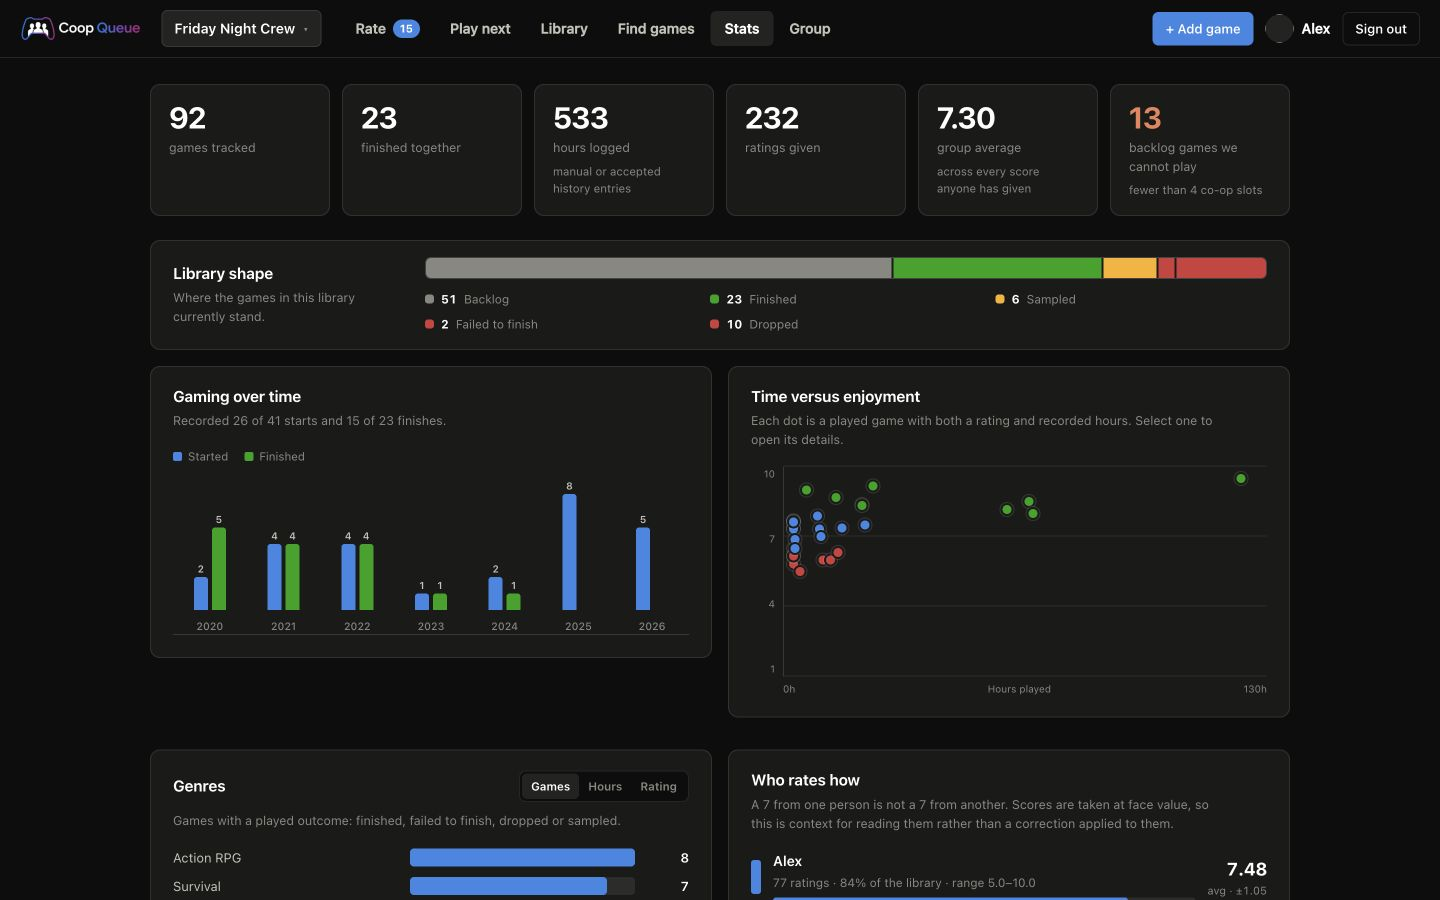
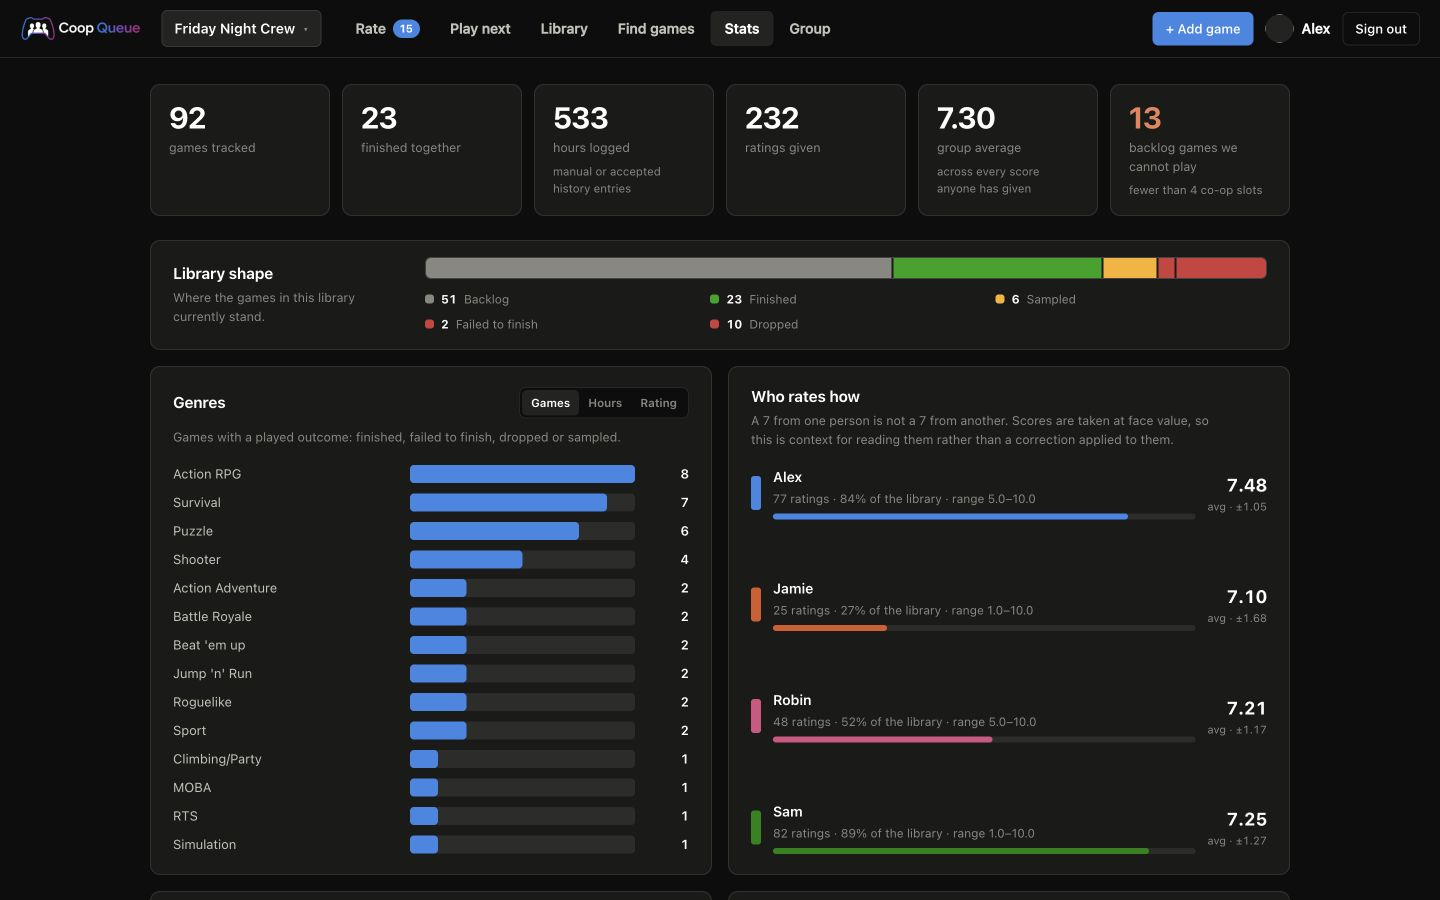
Tighten stats panel spacing
Put genre and rating profiles before the history charts, let each paired row share a card height, and remove the doubled panel/grid gutter that produced uneven vertical gaps. Refresh the published Stats screenshot to match.

diff --git a/public/index.html b/public/index.html
@@ -481,19 +481,6 @@
         <div id="status-shape"></div>
       </section>
       <div class="grid-2 stats-grid">
-        <section class="panel" id="stats-timeline">
-          <h3 class="panel-title">Gaming over time</h3>
-          <p class="panel-sub" id="timeline-note"></p>
-          <div id="timeline-chart"></div>
-        </section>
-        <section class="panel" id="stats-scatter">
-          <h3 class="panel-title">Time versus enjoyment</h3>
-          <p class="panel-sub">Each dot is a played game with both a rating and recorded hours.
-            Select one to open its details.</p>
-          <div id="scatter-chart"></div>
-        </section>
-      </div>
-      <div class="grid-2 stats-grid">
         <section class="panel" id="stats-genres">
           <div class="panel-head">
             <h3 class="panel-title">Genres</h3>
@@ -511,6 +498,19 @@
           <p class="panel-sub">A 7 from one person is not a 7 from another. Scores are taken at face
             value, so this is context for reading them rather than a correction applied to them.</p>
           <div id="people-list" class="people"></div>
+        </section>
+      </div>
+      <div class="grid-2 stats-grid">
+        <section class="panel" id="stats-timeline">
+          <h3 class="panel-title">Gaming over time</h3>
+          <p class="panel-sub" id="timeline-note"></p>
+          <div id="timeline-chart"></div>
+        </section>
+        <section class="panel" id="stats-scatter">
+          <h3 class="panel-title">Time versus enjoyment</h3>
+          <p class="panel-sub">Each dot is a played game with both a rating and recorded hours.
+            Select one to open its details.</p>
+          <div id="scatter-chart"></div>
         </section>
       </div>
       <div class="grid-2 stats-grid">

diff --git a/public/styles.css b/public/styles.css
@@ -371,8 +371,13 @@ td.miss { color: #4a4a47; }
 .tile-alert .tile-val { color: var(--serious); }
 
 .grid-2 { display: grid; grid-template-columns: repeat(auto-fit,minmax(340px,1fr)); gap: 16px; margin-bottom: 16px; }
-.stats-grid { align-items: start; }
-.stats-grid > .panel { min-width: 0; }
+.stats-grid { align-items: stretch; }
+/* A Stats row owns its spacing. The generic panel margin otherwise combines with
+   the grid margin, while a shorter card stops early and makes that doubled gap
+   look different in each column. Stretch the pair and leave one 16px gutter. */
+.stats-grid > .panel { min-width: 0; height: 100%; margin-bottom: 0; }
+#stats-people { display: flex; flex-direction: column; }
+#stats-people .people { flex: 1; align-content: space-between; }
 .grid-2.single { grid-template-columns: 1fr; }
 .panel { background: var(--surface-1); border: 1px solid var(--border); border-radius: var(--radius); padding: 20px 22px; margin-bottom: 16px; }
 .panel-title { font-size: 15.5px; margin-bottom: 14px; }

diff --git a/README.md b/README.md
@@ -83,8 +83,8 @@ tab ranks everyone by how much of the library they have scored. Rating coverage
 is the thing that decides whether any of the scoring means anything, so it is
 not hidden in a stats page.
 
-**Stats.** A compact full-width library-status summary, genres by games / recorded hours / average rating,
-yearly starts and finishes, time-versus-rating, per-person baselines, and a dot
+**Stats.** A compact full-width library-status summary followed by paired genre and
+rating profiles, yearly starts and finishes, time-versus-rating, and a dot
 plot of your biggest arguments. Missing hours remain unknown and every history
 chart shows its date coverage. Panels with no underlying data stay hidden.
 Personal workspaces keep the useful history, rating and playtime views while
